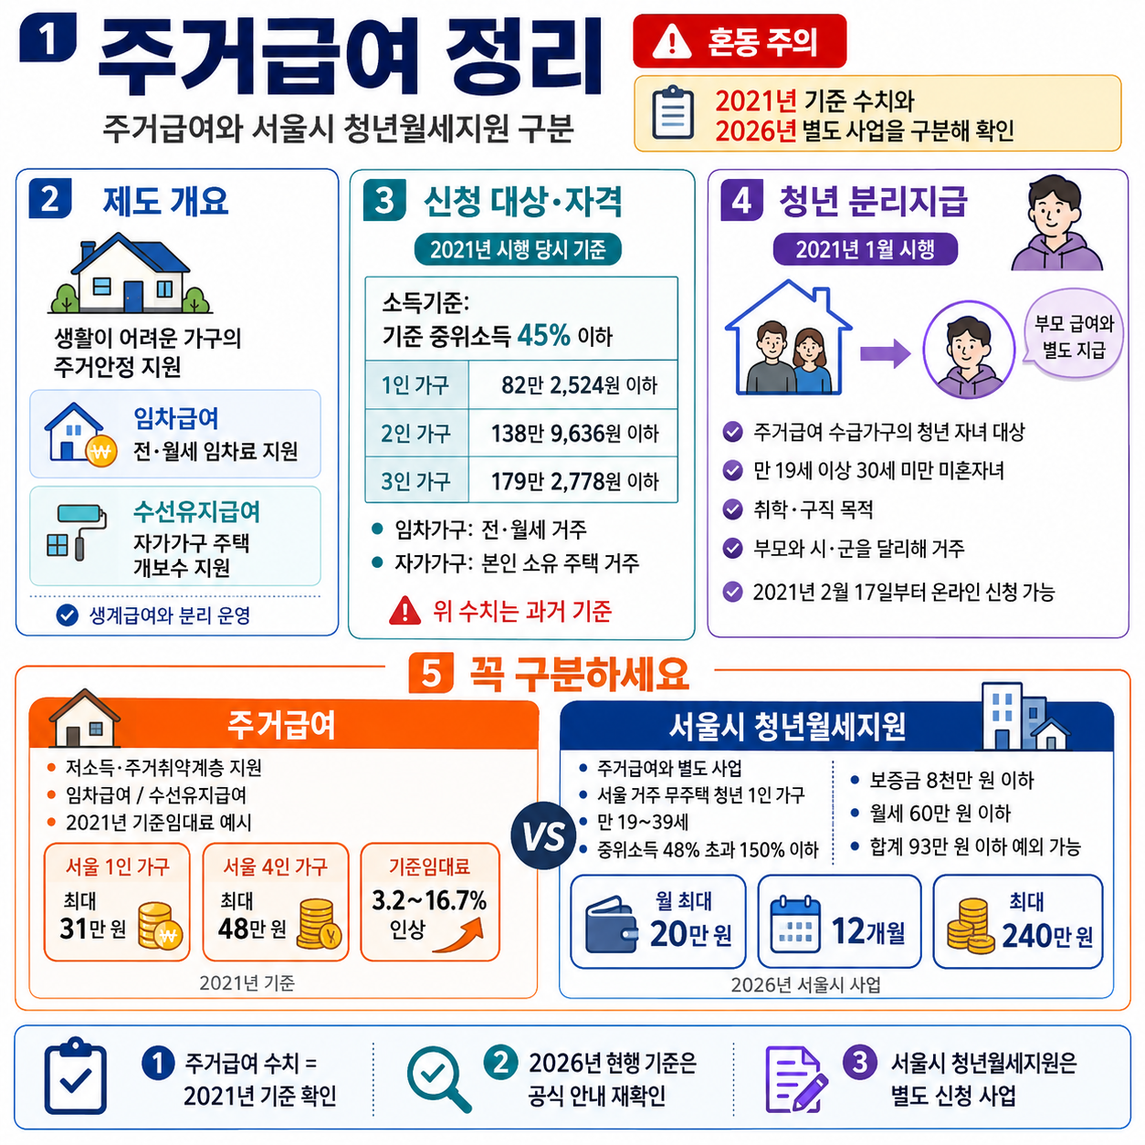
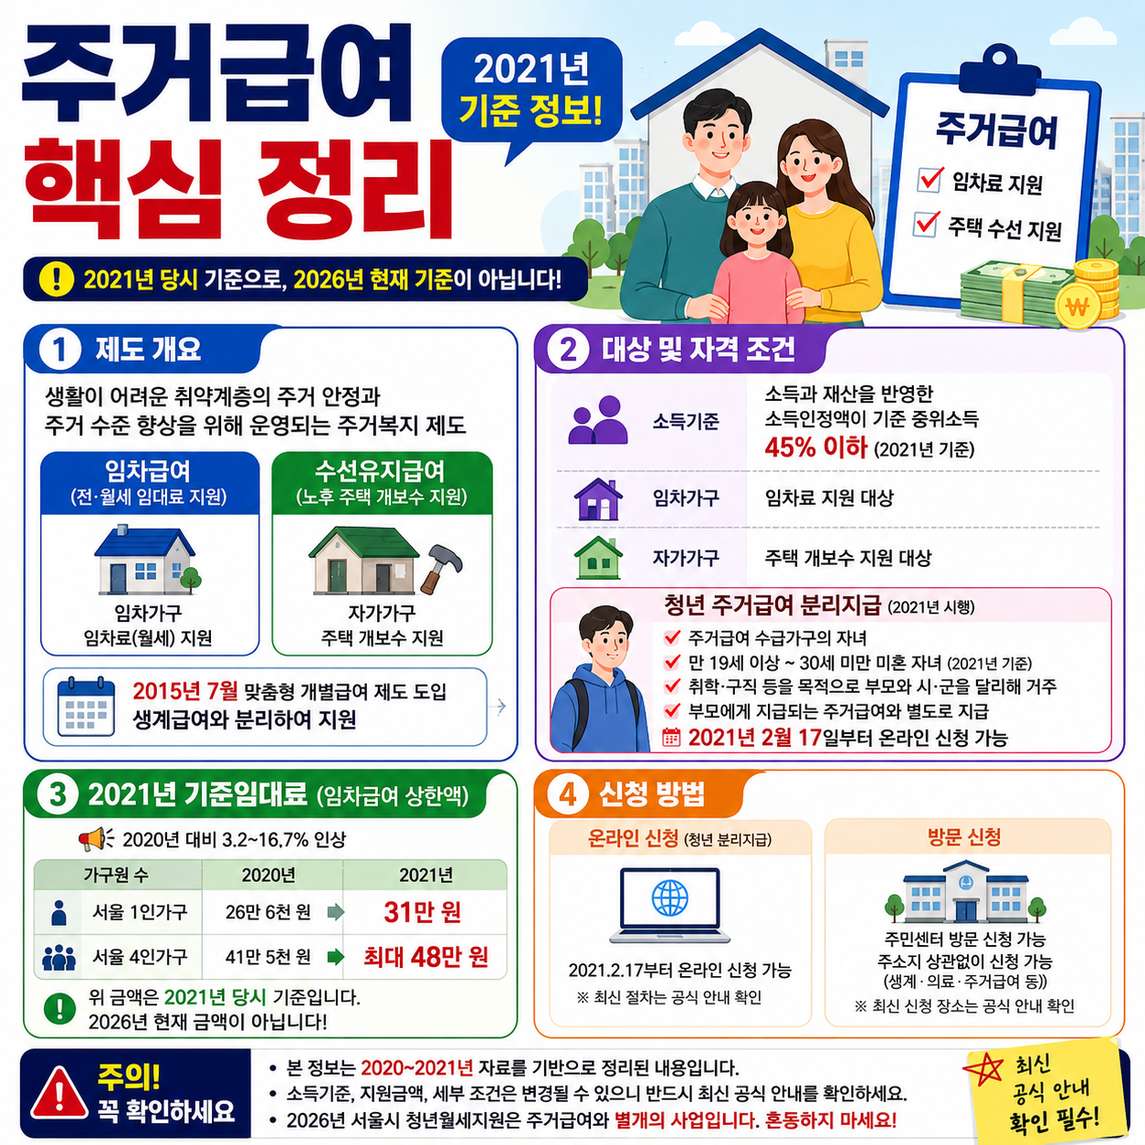
post: auto-generated for tax-yearend

diff --git a/sites/tax-yearend/content/posts/2026-08-31-주거급여-신청-조건과-혜택-총정리.md b/sites/tax-yearend/content/posts/2026-08-31-주거급여-신청-조건과-혜택-총정리.md
@@ -1,0 +1,263 @@
+---
+title: "주거급여 신청 조건과 혜택 총정리"
+date: 2026-08-31
+description: "요청하신 조건에 맞춰, 제공된 참고 자료에 명시된 내용만 사용해 작성했습니다. 특히 2021년 기준 금액·소득기준은 현재 기준으로 오해되지 않도록 명확히 구분했습니다. 주거급여란 무엇인가요? 주거급여는 생활이 어려운 취약계층의 주거 안정과 주거 수준 향상 을 위해 운영되는 제도입니다. 제공된 자료에 따르면 주거급여는 크게"
+categories: ["지원금·혜택"]
+tags: ["주거급여", "지원금·혜택"]
+author: "오늘의 트렌드"
+image: "/images/주거급여-신청-조건과-혜택-총정리.png"
+---
+
+요청하신 조건에 맞춰, **제공된 참고 자료에 명시된 내용만** 사용해 작성했습니다. 특히 2021년 기준 금액·소득기준은 현재 기준으로 오해되지 않도록 명확히 구분했습니다.
+
+## 주거급여란 무엇인가요?
+
+주거급여는 생활이 어려운 취약계층의 **주거 안정과 주거 수준 향상**을 위해 운영되는 제도입니다. 제공된 자료에 따르면 주거급여는 크게 임차가구의 임차료를 지원하는 **임차급여(전·월세 임대료 지원)**와 자가가구의 주택 수선을 지원하는 **수선유지급여(노후 주택 개보수 지원)**로 구성됩니다.
+
+과거에는 생계급여와 함께 다뤄졌지만, 2015년 7월 맞춤형 개별급여 제도가 도입되면서 생계급여와 분리해 지원하는 방식으로 운영됐습니다. 즉, 주거급여는 단순히 월세를 지원하는 제도만을 뜻하는 것이 아니라, 거주 형태에 따라 임차료 지원 또는 주택 개보수 지원을 받을 수 있도록 설계된 주거복지 제도라고 이해하시면 좋습니다.
+
+다만 주거급여의 **소득기준과 기준임대료(임차급여 지급 상한액)**는 시기에 따라 달라질 수 있다는 점을 꼭 기억하셔야 합니다. 제공된 참고 자료 중 구체적인 주거급여 소득기준과 금액을 확인할 수 있는 자료는 주로 2020~2021년 제도에 관한 내용입니다. 따라서 아래에서 소개하는 구체적인 금액과 소득기준은 **2021년 당시 확인된 기준**으로 표시하고, 이를 2026년 현재 기준이라고 단정하지 않겠습니다.
+
+또 하나 알아두시면 좋은 제도가 **청년 주거급여 분리지급**입니다. 기존 주거급여 수급가구의 청년 자녀가 취학이나 구직 등을 위해 부모와 떨어져 사는 경우, 일정 조건을 충족하면 부모에게 지급되는 주거급여와 별도로 청년에게 주거급여를 지급하도록 한 제도입니다.
+
+특히 청년 주거급여 분리지급은 2021년부터 시행됐으며, 2021년 2월 17일부터 온라인 신청이 가능해졌다는 내용이 참고 자료에서 확인됩니다. 부모와 떨어져 생활하는 저소득 청년이라면 일반적인 청년 월세지원 제도와 혼동하지 말고, **부모 가구가 주거급여 수급가구인지**부터 확인해 보는 것이 중요합니다.
+
+참고로 제공된 자료에는 **2026년 서울시 청년월세지원**에 관한 내용도 포함되어 있지만, 이는 주거급여와 별개의 사업입니다. 서울시 청년월세지원의 소득·나이·보증금·월세 조건을 주거급여 조건으로 적용하면 안 됩니다.
+
+## 이런 분이 주거급여를 확인해 보시면 좋아요
+
+쉽게 정리하면 다음과 같습니다.
+
+전·월세로 살면서 생활 형편이 어려운 가구라면 임차급여를, 본인 소유 주택에 거주하면서 주택 노후로 수선이 필요한 저소득 가구라면 수선유지급여를 확인해 볼 수 있습니다.
+
+또한 이미 주거급여를 받고 있는 부모 가구의 자녀 가운데 부모와 떨어져 생활하는 청년이라면 **청년 주거급여 분리지급 대상에 해당하는지** 별도로 확인해 볼 필요가 있습니다.
+
+다만 현재 신청 가능 여부는 소득인정액 등 실제 심사를 통해 판단되는 만큼, 과거 기준만 보고 스스로 대상이 아니라고 단정하기보다는 최신 공식 안내를 확인하는 것이 좋습니다.
+
+## 신청 대상 및 자격 조건
+
+제공된 참고 자료에서 구체적으로 확인할 수 있는 주거급여 및 청년 주거급여 분리지급 조건을 정리하면 다음과 같습니다.
+
+| 구분            | 참고 자료에서 확인되는 내용                   | 꼭 알아둘 점                  |
+| ------------- | --------------------------------- | ------------------------ |
+| 주거급여 목적       | 생활이 어려운 취약계층의 주거 안정 및 주거 수준 향상    | 임차료 지원과 주택 개보수 지원으로 구분   |
+| 소득기준          | 소득과 재산을 반영한 소득인정액이 기준 중위소득 45% 이하 | **2021년 당시 자료 기준**       |
+| 임차가구          | 임차료 지원 대상                         | 기준임대료를 기준으로 지원           |
+| 자가가구          | 주택 개보수 지원 대상                      | 주택 노후도에 따른 수선 지원         |
+| 청년 분리지급 기본 조건 | 주거급여 수급가구의 청년 자녀                  | 부모 가구가 주거급여 수급가구라는 점이 중요 |
+| 청년 나이         | 만 19세 이상 30세 미만                   | **2021년 시행 당시 자료 기준**    |
+| 혼인 여부         | 미혼자녀                              | 2021년 자료 기준              |
+| 별도 거주 사유      | 취학·구직 등을 목적으로 부모와 떨어져 거주          | 실제 대상 여부는 공식 안내 확인 필요    |
+| 거주지 조건        | 부모와 시·군을 달리해 거주                   | 2021년 자료에서 확인되는 조건       |
+| 지급 방식         | 부모에게 지급되는 주거급여와 별도로 청년에게 지급       | 청년 주거급여 분리지급에 해당         |
+
+여기에서 중요한 용어가 **소득인정액**입니다. 제공된 자료에서는 이를 소득과 재산을 반영해 판단하는 금액으로 설명하고 있습니다. 따라서 단순히 월급만 보고 주거급여 대상인지 판단하는 것은 적절하지 않습니다.
+
+또한 2021년 당시 자료에는 3인 가구의 주거급여 수급 기준과 관련해 기준 중위소득 45%라는 내용이 제시돼 있습니다. 하지만 현재 시점은 2026년이므로, **45% 기준을 현재 기준이라고 그대로 적용해서는 안 됩니다.** 최신 소득기준은 방문 전 공식 안내를 확인하시기 바랍니다.
+
+## 주거급여 혜택은 어떻게 나뉘나요?
+
+주거급여는 거주 형태에 따라 지원 방식이 달라집니다.
+
+| 구분           | 지원 내용                               | 제공 자료에서 확인되는 기준               |
+| ------------ | ----------------------------------- | ----------------------------- |
+| 임차급여         | 전·월세 임대료 지원                         | 가구원 수와 지역 등에 따라 기준임대료 적용      |
+| 수선유지급여       | 자가주택 개보수 지원                         | 주택 노후도에 따른 경·중·대보수 기준         |
+| 청년 주거급여 분리지급 | 부모와 떨어져 거주하는 일정 요건의 청년에게 별도 주거급여 지급 | 부모 가구가 주거급여 수급가구인 경우 등을 전제로 함 |
+
+### 임차가구는 임대료 지원을 받을 수 있어요
+
+임차가구에는 **기준임대료**가 중요한 기준으로 활용됩니다. 기준임대료란 임차급여 지급의 상한액을 의미합니다.
+
+제공된 2020년 12월 자료에 따르면 2021년 기준임대료는 당시 전년보다 가구와 지역에 따라 **3.2~16.7% 인상**됐습니다.
+
+구체적으로 당시 확인된 사례는 다음과 같습니다.
+
+| 사례            |      2020년 |    2021년 |
+| ------------- | ---------: | -------: |
+| 서울 1인가구 기준임대료 | 26만 6,000원 |    31만 원 |
+| 서울 4인가구 기준임대료 | 41만 5,000원 | 최대 48만 원 |
+
+**중요합니다.** 위 금액은 어디까지나 참고 자료에서 확인되는 **2020~2021년 당시 금액**입니다. 2026년 현재 지급액이라고 볼 수 없습니다. 현재 지역별·가구원별 기준임대료는 최신 공식 안내를 반드시 확인하시기 바랍니다.
+
+### 자가가구는 주택 수선을 지원받을 수 있어요
+
+본인 소유 주택에 거주하는 대상 가구는 월세를 지원받는 방식이 아니라 **수선유지급여**를 통해 주택 개보수를 지원받는 구조입니다.
+
+제공된 자료에 따르면 주택 노후도에 따라 **경보수·중보수·대보수**로 구분하여 보수한도를 기준으로 수선비용을 지원하는 방식이었습니다.
+
+다만 제공된 자료만으로는 2026년 현재 각각의 보수 단계별 정확한 지원금액을 확인할 수 없으므로 구체적인 금액은 임의로 기재하지 않겠습니다. **방문 전 공식 안내 확인**이 필요합니다.
+
+## 청년 주거급여 분리지급도 확인하세요
+
+청년이라고 해서 누구나 별도의 주거급여를 받는 것은 아닙니다.
+
+제공된 자료에서 확인되는 2021년 제도의 핵심은 **기존 주거급여 수급가구 안에 있는 청년 자녀가 부모와 떨어져 거주하는 경우**입니다.
+
+당시 기준으로는 만 19세 이상 30세 미만 미혼자녀가 취학이나 구직 등을 목적으로 부모와 시·군을 달리해 거주하는 경우 별도 지급 대상이 될 수 있었습니다.
+
+즉, 다음과 같이 이해하시면 쉽습니다.
+
+**“부모님과 떨어져 사는 청년이면 무조건 받는 지원금”이 아니라, “주거급여 수급가구의 청년 자녀가 일정 조건으로 따로 거주할 때 주거급여를 분리해 지급하는 제도”**입니다.
+
+이 차이를 꼭 기억해 두시는 것이 좋습니다.
+
+## 서울시 청년월세지원과 주거급여는 같은 제도인가요?
+
+아닙니다. 제공된 참고 자료에는 2026년 서울시 청년월세지원 내용도 있지만, 이 사업은 주거급여와 구분해서 봐야 합니다.
+
+참고 자료에 따르면 2026 서울시 청년월세지원은 서울에 거주하는 일정 요건의 무주택 청년 1인 가구를 대상으로 별도로 운영된 사업입니다. 따라서 해당 사업에서 제시하는 나이, 소득, 임차보증금, 월세 등의 기준을 **주거급여 신청기준으로 가져와서는 안 됩니다.**
+
+정부·지자체의 주거지원 제도는 이름과 목적이 비슷해 보여도 대상과 소득기준, 중복지원 여부 등이 달라질 수 있으므로 신청하려는 사업명을 정확하게 확인하는 것이 중요합니다.
+
+## 주거급여 온라인 신청 방법
+
+제공된 자료에서 명확하게 확인되는 온라인 신청 관련 사실은 **청년 주거급여 분리지급이 2021년 2월 17일부터 온라인으로 신청할 수 있게 됐다는 점**입니다.
+
+다만 제공된 자료에는 2026년 현재 온라인 신청 화면의 정확한 메뉴 명칭이나 최신 화면별 절차가 모두 제시되어 있지 않습니다. 따라서 확인되지 않은 메뉴명이나 버튼명을 임의로 만들어 안내하지 않고, 확인 가능한 범위에서 신청 준비 과정을 5단계로 정리하겠습니다.
+
+### 1단계. 내가 어떤 주거급여를 확인해야 하는지 구분하세요
+
+먼저 일반 임차급여인지, 자가가구의 수선유지급여인지, 청년 주거급여 분리지급인지 확인하는 것이 좋습니다.
+
+특히 청년 분리지급을 알아보는 경우에는 단순히 “부모와 따로 산다”는 사실만 확인할 것이 아니라, **부모 가구가 주거급여 수급가구인지**를 먼저 확인해야 합니다.
+
+### 2단계. 소득 및 가구 조건을 확인하세요
+
+주거급여는 소득과 재산을 반영한 **소득인정액**을 기준으로 대상 여부를 판단하는 제도입니다.
+
+제공 자료에서 확인되는 중위소득 45% 기준은 2021년 당시 기준이므로, 2026년 신청 시 그대로 적용해서는 안 됩니다.
+
+현재 소득기준은 **신청 전 최신 공식 안내를 확인**하세요.
+
+### 3단계. 청년 분리지급이라면 별도 거주 조건을 살펴보세요
+
+제공된 2021년 자료에서는 주거급여 수급가구 내 만 19세 이상 30세 미만 미혼자녀가 취학·구직 등을 목적으로 부모와 시·군을 달리해 거주하는 경우를 청년 분리지급 대상으로 안내했습니다.
+
+현재도 동일한 조건이 그대로 적용되는지는 제공 자료만으로 확인할 수 없으므로 최신 기준을 확인해야 합니다.
+
+### 4단계. 온라인 신청 가능 여부와 최신 신청 화면을 확인하세요
+
+청년 주거급여 분리지급의 경우 2021년 2월 17일부터 온라인 신청이 가능해졌다는 사실이 제공 자료에서 확인됩니다.
+
+다만 현재 온라인 신청 페이지의 구체적인 메뉴 구성이나 제출 항목은 참고 자료만으로 확인되지 않으므로, 실제 신청 시에는 **공식 신청 안내에서 최신 절차를 확인한 뒤 진행**하시기 바랍니다.
+
+### 5단계. 입력 내용과 대상 조건을 다시 확인한 뒤 신청하세요
+
+온라인 신청을 진행할 때는 본인이 신청하려는 제도가 일반 주거급여인지 청년 주거급여 분리지급인지 혼동하지 않는 것이 중요합니다.
+
+특히 별도의 청년월세지원 사업과 주거급여는 서로 다른 제도이므로 사업명을 다시 확인하고, 현재 적용되는 자격기준과 신청 절차는 공식 안내를 기준으로 최종 확인하시기 바랍니다.
+
+
+<figure class="post-mid-image">
+  <img src="/images/주거급여-신청-조건과-혜택-총정리-mid.png" alt="주거급여 신청 조건과 혜택 총정리 인포그래픽" loading="lazy">
+</figure>
+
+## 오프라인 신청 방법
+
+제공된 2020년 12월 자료에서는 청년 주거급여 분리지급을 희망하는 수급가구가 **부모 주소지 관할 읍·면·동 주민센터에 방문해 신청**할 수 있다고 안내했습니다.
+
+한편 제공된 대한민국 정책브리핑 자료에는 생계·의료·주거급여 등을 **주소지와 상관없이 신청할 수 있다**는 정책 내용도 제시되어 있습니다.
+
+따라서 과거 청년 분리지급 안내와 이후 신청 제도 변화가 함께 존재하므로, 2026년 현재 실제 방문 신청을 계획하고 계시다면 특정 주민센터로 단정해 방문하기보다 **방문 전 최신 공식 안내를 확인**하시는 것이 안전합니다.
+
+## 신청 기간 및 일정 정리
+
+주거급여와 관련해 제공된 자료에서 확인할 수 있는 주요 시점을 정리하면 다음과 같습니다.
+
+| 시기              | 확인되는 내용                               |
+| --------------- | ------------------------------------- |
+| 2015년 7월        | 맞춤형 개별급여 제도 도입에 따라 주거급여를 생계급여와 분리해 지원 |
+| 2021년 1월        | 청년 주거급여 분리지급 시행                       |
+| 2021년 2월 17일    | 청년 주거급여 분리지급 온라인 신청 가능                |
+| 2026년 8월 31일 현재 | 제공 자료만으로 주거급여의 별도 신청 마감일 확인 불가        |
+
+따라서 “올해 몇 월까지 신청해야 하나요?”라는 질문에 대해서는 제공된 참고 자료만으로 2026년 현재의 정확한 접수 일정을 단정할 수 없습니다.
+
+**방문 전 공식 안내 확인**을 권해드립니다.
+
+참고로 2026년 5월 6일부터 5월 19일까지 진행된 일정은 제공 자료상 **서울시 청년월세지원 사업의 신청기간**이며, 일반 주거급여 신청기간이 아닙니다. 두 제도의 일정을 혼동하지 않도록 주의하세요.
+
+## 신청 전에 꼭 알아둘 주의사항과 꿀팁
+
+1. **2021년 소득기준을 2026년 기준으로 생각하지 마세요.**
+   제공 자료에서 확인되는 기준 중위소득 45% 이하 조건은 과거 자료의 기준입니다. 현재 기준은 최신 공식 안내를 확인해야 합니다.
+
+2. **과거 기준임대료도 현재 지급액으로 보면 안 됩니다.**
+   서울 1인가구 31만 원, 서울 4인가구 최대 48만 원이라는 금액은 2021년 당시 기준임대료입니다. 2026년 현재 금액으로 단정할 수 없습니다.
+
+3. **청년 주거급여 분리지급과 일반 청년월세지원을 구분하세요.**
+   이름은 비슷하지만 별개의 제도입니다. 특히 제공 자료에 등장하는 2026 서울시 청년월세지원의 조건을 주거급여 조건으로 착각하면 안 됩니다.
+
+4. **청년 분리지급은 부모 가구의 주거급여 수급 여부가 핵심입니다.**
+   2021년 자료 기준으로 청년 분리지급은 기존 주거급여 수급가구 내 청년 자녀를 대상으로 도입된 제도입니다. 단순히 청년 1인 가구라는 이유만으로 적용되는 제도가 아닙니다.
+
+5. **소득은 단순 월급만으로 판단하지 마세요.**
+   제공 자료에서는 소득과 재산을 반영한 소득인정액을 기준으로 주거급여 대상을 판단한다고 설명합니다.
+
+6. **임차가구와 자가가구의 지원방식이 다릅니다.**
+   임차가구는 임차료 지원을 중심으로 하고, 자가가구는 주택 노후도에 따른 수선유지급여를 지원하는 구조입니다. 본인의 주거 형태부터 정확히 구분해 보세요.
+
+7. **청년이라면 부모와의 거주지 관계도 살펴보세요.**
+   제공된 2021년 기준에서는 취학·구직 등의 목적으로 부모와 시·군을 달리해 거주하는 조건이 제시됐습니다. 현재 세부 조건은 최신 공식 안내를 확인하세요.
+
+8. **오래된 기사에 나온 숫자는 ‘당시 기준’인지부터 확인하세요.**
+   주거급여처럼 소득기준과 기준임대료가 조정될 수 있는 제도는 과거 기사 속 숫자를 현재 기준으로 적용하면 실제 자격이나 예상 지원액과 차이가 생길 수 있습니다.
+
+9. **방문 신청 전에는 최신 신청 장소를 확인하세요.**
+   과거 자료에는 부모 주소지 관할 주민센터 신청 방식이 안내돼 있지만, 이후 정책브리핑 자료에는 주거급여 등을 주소지와 상관없이 신청할 수 있다는 내용도 확인됩니다. 방문 전에 현재 적용되는 공식 안내를 확인하는 것이 좋습니다.
+
+## 자주 묻는 질문(FAQ)
+
+**Q: 주거급여는 월세를 내는 사람만 받을 수 있나요?**
+
+A: 아닙니다. 제공된 자료에 따르면 주거급여는 임차가구에 대한 임차급여뿐 아니라 자가가구에 대한 수선유지급여도 포함합니다. 임차가구에는 임차료를 지원하고, 자가가구에는 주택 노후도에 따라 주택 개보수를 지원하는 구조입니다.
+
+**Q: 2026년에도 중위소득 45% 이하면 주거급여를 받을 수 있나요?**
+
+A: 제공된 참고 자료에서 중위소득 45% 이하라는 기준은 2021년 당시 제도에 관한 내용입니다. 해당 수치를 2026년 현재 기준이라고 단정할 수 없습니다. 현재 적용되는 소득기준은 최신 공식 안내를 확인하시기 바랍니다.
+
+**Q: 부모와 떨어져 사는 청년이면 청년 주거급여를 받을 수 있나요?**
+
+A: 부모와 떨어져 산다는 사실만으로 지급되는 제도는 아닙니다. 제공된 2021년 자료에서는 주거급여 수급가구 내 만 19세 이상 30세 미만 미혼자녀가 취학·구직 등을 목적으로 부모와 시·군을 달리해 거주하는 경우를 대상으로 안내했습니다. 현재 세부 기준은 최신 공식 안내 확인이 필요합니다.
+
+**Q: 청년 주거급여 분리지급은 온라인으로도 신청할 수 있나요?**
+
+A: 제공된 자료에 따르면 청년 주거급여 분리지급은 2021년 2월 17일부터 온라인 신청이 가능해졌습니다. 다만 2026년 현재의 정확한 온라인 신청 메뉴와 화면별 절차는 제공된 자료만으로 확인되지 않으므로 실제 신청 전 공식 안내를 확인하시기 바랍니다.
+
+**Q: 2026 서울시 청년월세지원과 주거급여는 같은 제도인가요?**
+
+A: 같은 제도로 보면 안 됩니다. 제공된 자료에서 2026 서울시 청년월세지원은 서울 거주 무주택 청년 등을 대상으로 별도로 시행된 사업으로 소개됩니다. 따라서 서울시 청년월세지원의 나이·소득·임차보증금·월세 조건을 일반 주거급여의 신청 조건으로 적용하면 안 됩니다.
+
+## 한눈에 정리하면
+
+주거급여는 생활이 어려운 가구의 주거 안정을 지원하는 제도로, **임차가구에는 임차료를 지원하고 자가가구에는 주택 개보수를 지원**하는 것이 핵심입니다.
+
+또한 주거급여 수급가구의 청년 자녀가 취학·구직 등을 위해 부모와 떨어져 거주하는 경우를 위한 **청년 주거급여 분리지급** 제도도 시행됐습니다.
+
+다만 주거급여는 소득기준과 기준임대료 등 구체적인 조건과 금액이 시기에 따라 달라질 수 있습니다. 제공된 참고 자료에서 구체적인 숫자를 확인할 수 있는 주거급여 자료는 대부분 2020~2021년 기준이므로, **과거 기준을 2026년 현재 기준으로 그대로 적용하지 않는 것**이 가장 중요합니다.
+
+특히 인터넷에서 “서울 1인가구 31만 원”, “중위소득 45% 이하”, “만 19세 이상 30세 미만” 등의 정보를 발견하셨다면 해당 정보가 어느 연도의 기준인지 먼저 확인하세요.
+
+신청을 준비하실 때는 **① 임차가구인지 자가가구인지 확인하고, ② 현재 소득기준을 확인한 뒤, ③ 청년 분리지급 대상이라면 부모 가구의 주거급여 수급 여부와 별도 거주 조건을 확인하고, ④ 최신 공식 신청방법을 확인하는 순서**로 살펴보시면 제도를 이해하는 데 도움이 됩니다.
+
+## 출처
+
+* 이데일리, 「청년 주거급여 17일부터 온라인 신청…방법·조건은?」
+  [https://www.edaily.co.kr/news/read?newsId=01649846628951504](https://www.edaily.co.kr/news/read?newsId=01649846628951504)
+
+* bnt뉴스, 「2026 청년월세지원 신청 기간·방법, 조건과 대상은?」
+  [https://www.bntnews.co.kr/article/view/bnt202605060004](https://www.bntnews.co.kr/article/view/bnt202605060004)
+
+* 이투데이, 「주거 취약계층 임차료 지원금액 3.2~16.7% 인상」
+  [https://www.etoday.co.kr/news/view/1975963](https://www.etoday.co.kr/news/view/1975963)
+
+* 대한민국 정책브리핑, 「주소지 상관없이 생계·의료·주거급여 등 신청 가능」
+  [https://korea.kr/news/policyNewsView.do?newsId=148927712](https://korea.kr/news/policyNewsView.do?newsId=148927712)
+
+---
+
+<figure class="post-comic">
+  <figcaption>오늘의 시사 4컷</figcaption>
+  <img src="/images/주거급여-신청-조건과-혜택-총정리-comic.png" alt="주거급여 신청 조건과 혜택 총정리 4컷만화" loading="lazy">
+</figure>
